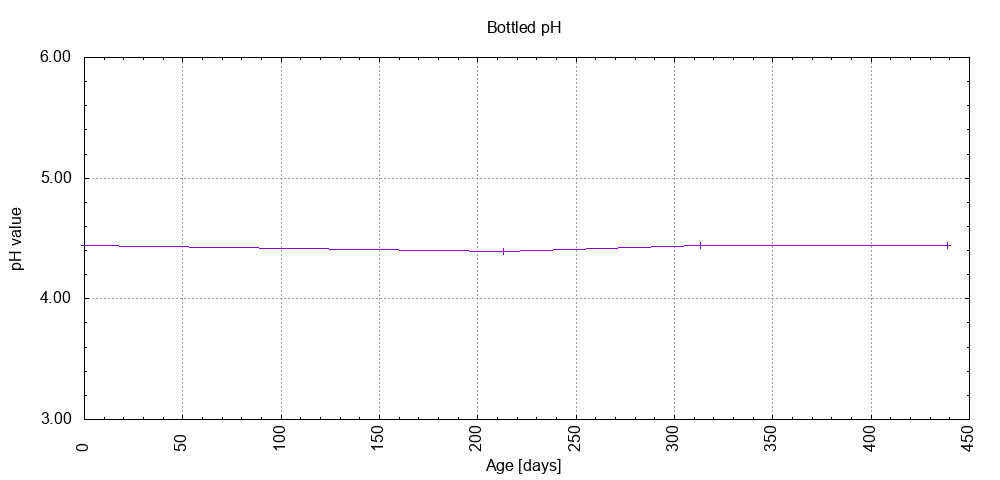
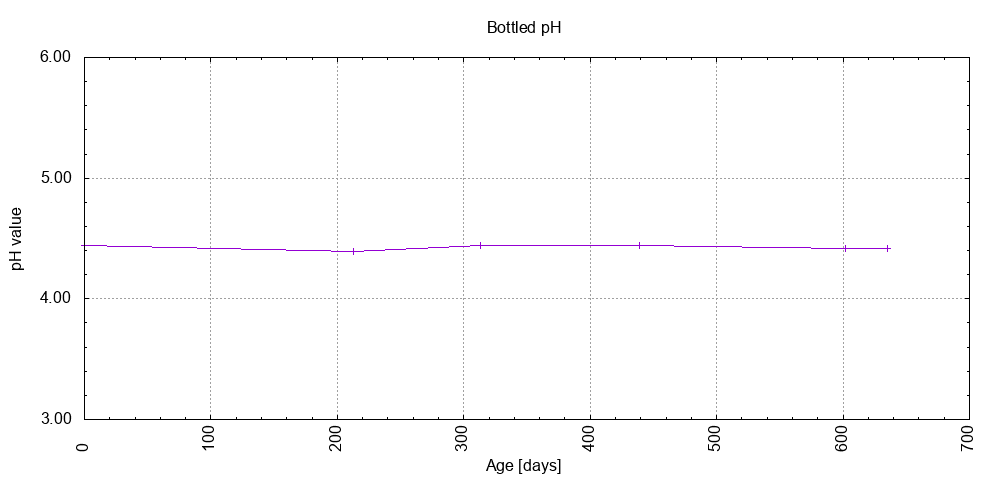
Updated batch 39.

diff --git a/docs/homebrewing/batches/batch_39/README.md b/docs/homebrewing/batches/batch_39/README.md
@@ -14,8 +14,6 @@ Archived.
 
 ## Process
 
-![temperature](temperature.png)
-
 ![mash_ph](mash_ph.png)
 
 ![fermentation](fermentation.png)
@@ -25,6 +23,8 @@ Archived.
 ![pressure](pressure.png)
 
 ![conditioning](conditioning.png)
+
+![temperature](temperature.png)
 
 ![bottled pH](bottled_ph.png)
 
@@ -60,12 +60,12 @@ Archived.
 | No. | Date       | Age | Score | Notes |
 |-----|------------|-----|-------|-------|
 |     | 02-10-2023 |   0 |       | Bottling day. |
-|   1 | 02-05-2024 | 213 | 3.50  | Served @ 23.2 C. Clear, small foamy head, good lacing, hoppy, fruity, berries, strong. |
-|   2 | 10-08-2024 | 313 | 3.50  | Served @ 20.0 C. Clear, small foamy head, good lacing, hoppy, fruity, berries, strong. |
+|   1 | [02-05-2024](20240502_Batch_39_Wet_Hops_Blonde_Ale_Willamette_v2_2023_BJCP_Scoresheet-1_11.pdf) | 213 | 3.50  | Served @ 23.2 C. Clear, small foamy head, good lacing, hoppy, fruity, berries, strong. |
+|   2 | [10-08-2024](20240810_Batch_39_Wet_Hops_Blonde_Ale_Willamette_v2_2023_BJCP_Scoresheet-2_11.pdf) | 313 | 3.50  | Served @ 20.0 C. Clear, small foamy head, good lacing, hoppy, fruity, berries, strong. |
 |   3 | 26-10-2024 | 390 |  | Tasting by EV pending. |
 |   4 | 14-12-2024 | 439 | 3.25  | Served @ 19.2 C. Clear, small foamy head, good lacing, hoppy, fruity, berries. |
-|   5 |  |  |  |  |
-|   6 |  |  |  |  |
+|   5 | 26-05-2025 | 602 | 3.50  | Served @ 17.0 C. Clear, small foamy head, good lacing, hoppy, fruity, berries. |
+|   6 | 28-06-2025 | 635 | 3.50  | Served @ 18.2 C. Clear, small foamy head, good lacing, hoppy, fruity, berries. |
 |   7 |  |  |  |  |
 |   8 |  |  |  |  |
 |   9 |  |  |  |  |
